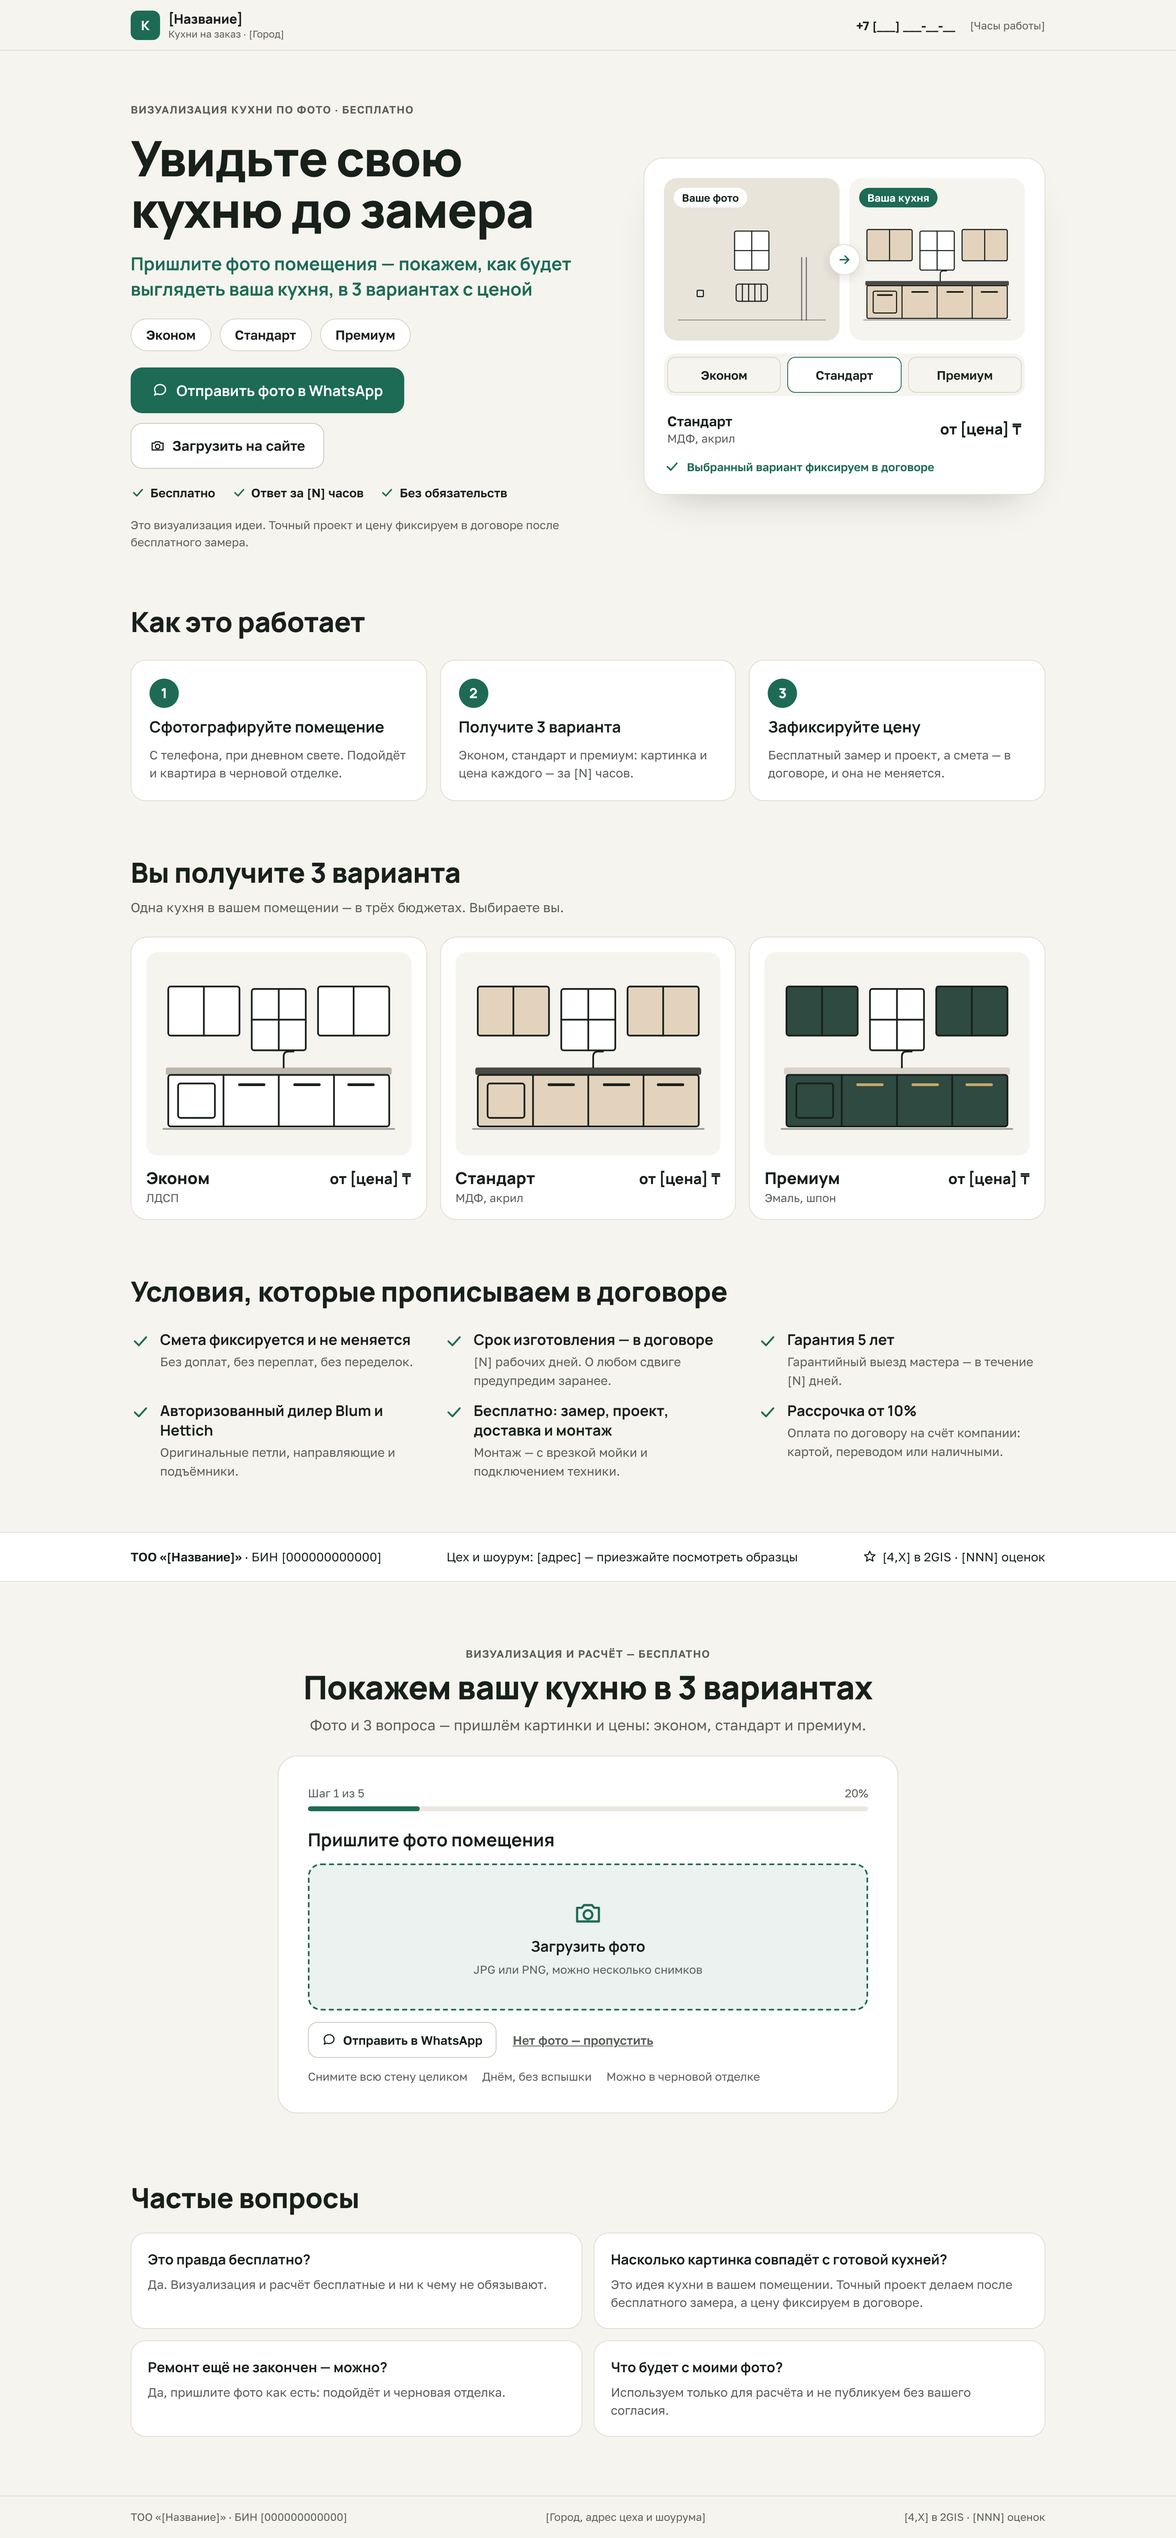
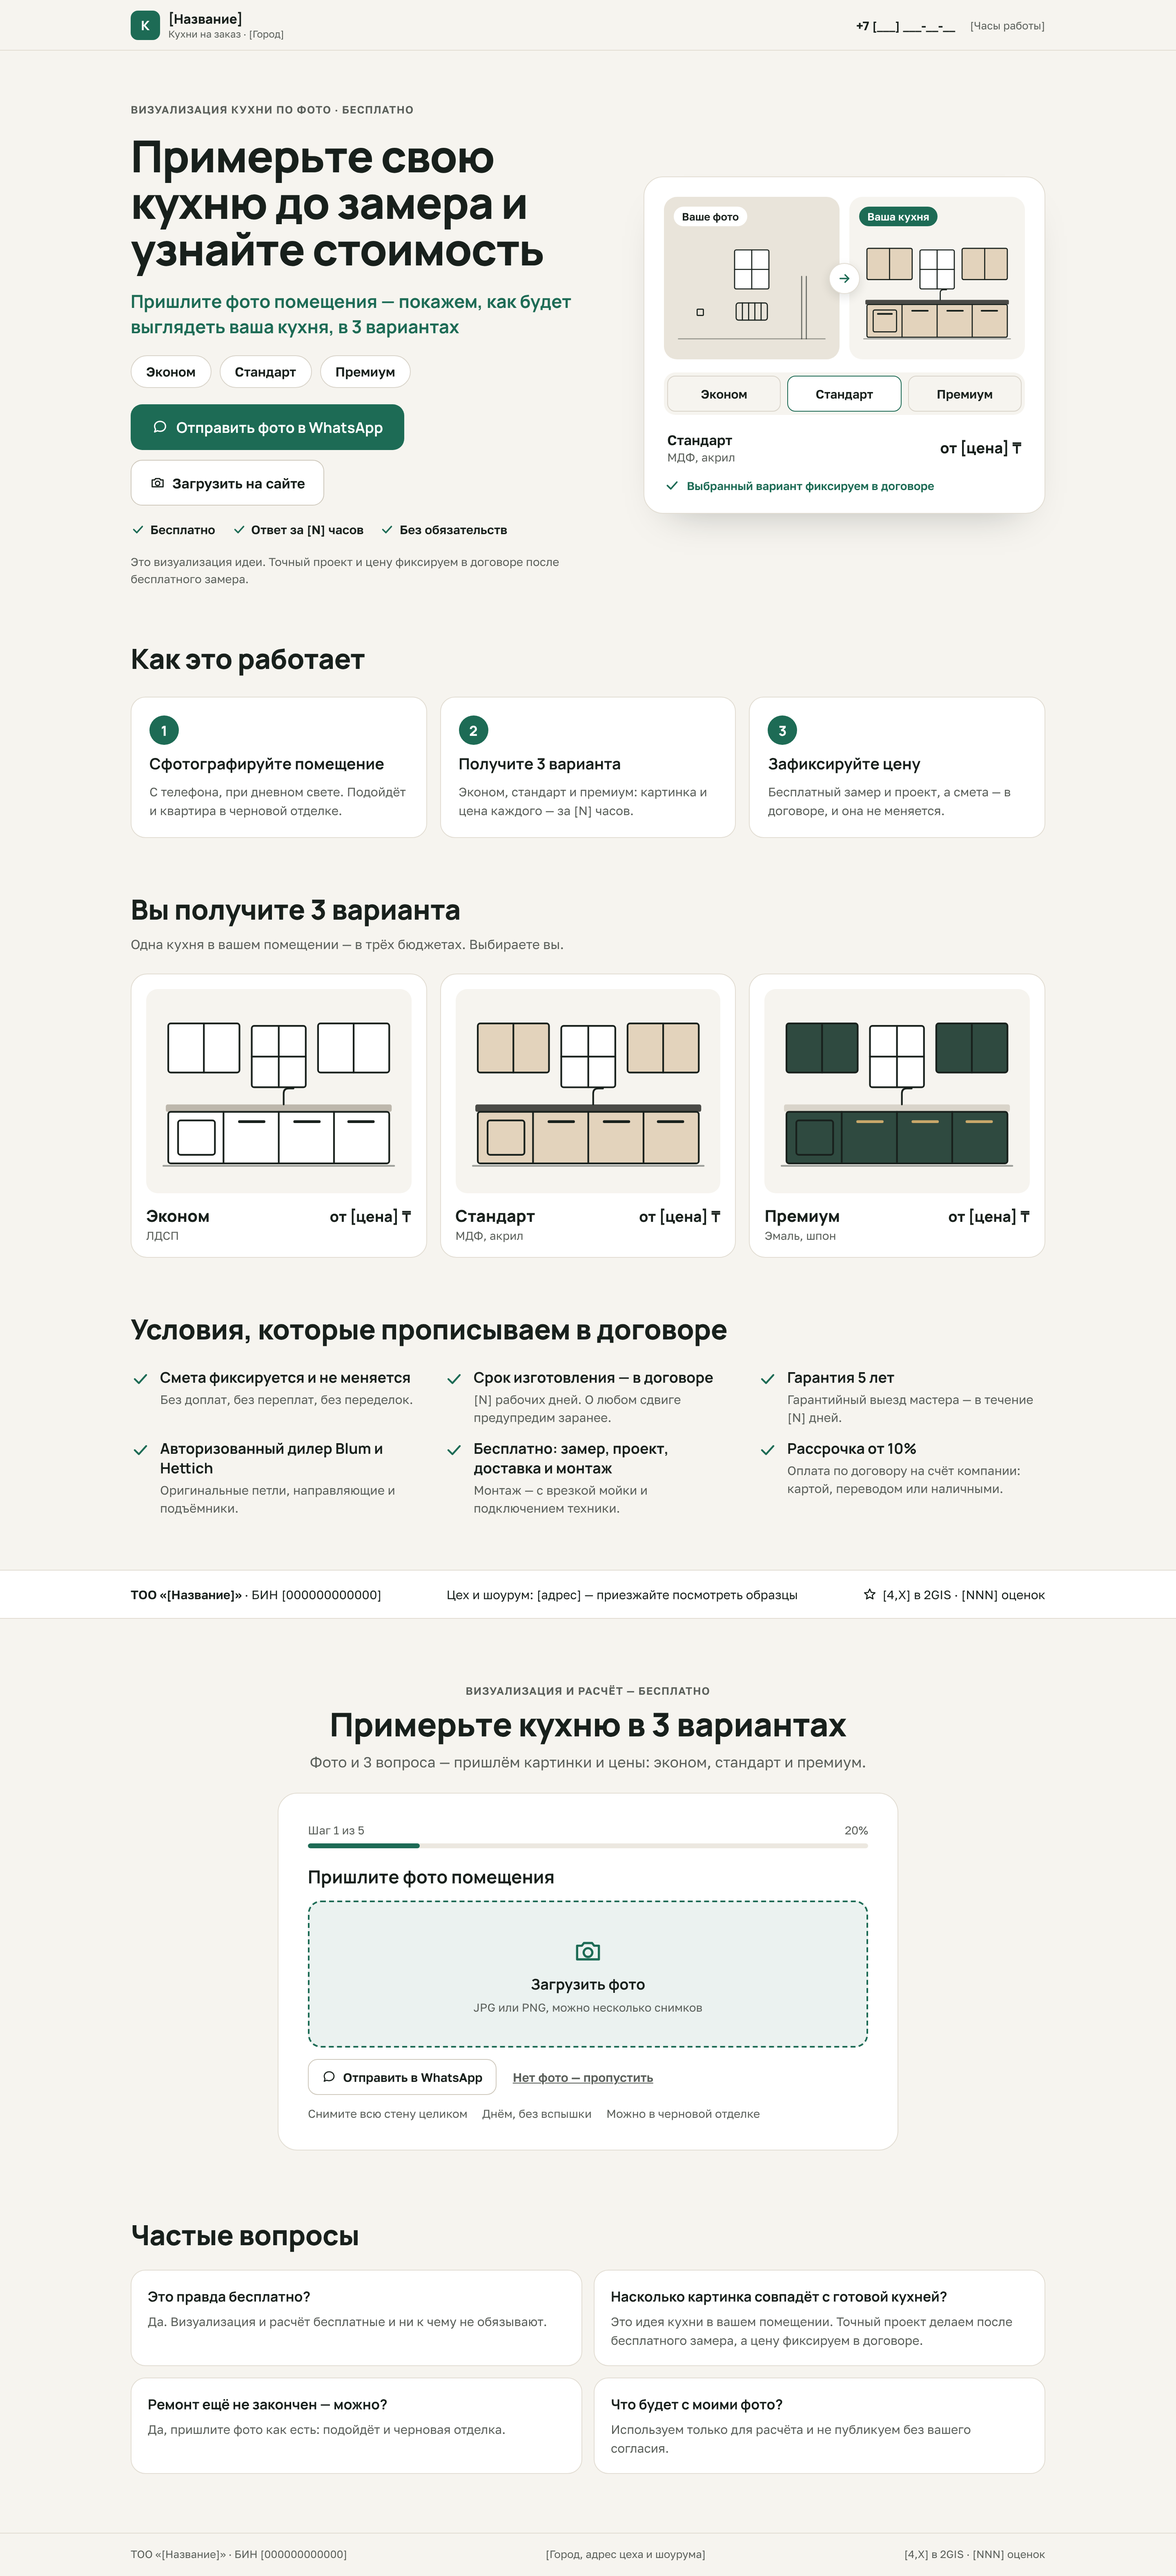
future: switch visualization headline to 'Примерьте свою кухню до замера и узнайте стоимость'
Claude-Session: https://claude.ai/code/session_01Qt72JtNyMN6tSNhXEsTKZ9

diff --git a/future/kitchen-visualization/mockups/Visual.dc.html b/future/kitchen-visualization/mockups/Visual.dc.html
@@ -2,7 +2,7 @@
 <html lang="ru">
 <head>
 <meta charset="utf-8">
-<title>Увидьте свою кухню до замера</title>
+<title>Примерьте свою кухню до замера</title>
 <script src="./support.js"></script>
 </head>
 <body>
@@ -34,8 +34,8 @@ body{margin:0}
 <section style="max-width: 1200px; margin: 0 auto; padding: clamp(28px, 4.5vw, 64px) clamp(16px, 4vw, 40px); box-sizing: border-box; display: flex; flex-wrap: wrap; align-items: center; gap: 36px 56px;">
 <div style="flex: 1 1 500px; min-width: 0; display: flex; flex-direction: column; gap: 20px;">
 <span style="font-size: 13px; font-weight: 600; letter-spacing: 0.06em; text-transform: uppercase; color: #5A5F5A;">Визуализация кухни по фото · бесплатно</span>
-<h1 style="margin: 0; font-family: Manrope, sans-serif; font-weight: 800; font-size: clamp(34px, 4.4vw, 60px); line-height: 1.05; letter-spacing: -0.02em;">Увидьте свою кухню до замера</h1>
-<p style="margin: 0; font-family: Manrope, sans-serif; font-weight: 700; font-size: clamp(18px, 1.8vw, 22px); line-height: 1.4; color: {{ accent }};">Пришлите фото помещения — покажем, как будет выглядеть ваша кухня, в 3 вариантах с ценой</p>
+<h1 style="margin: 0; font-family: Manrope, sans-serif; font-weight: 800; font-size: clamp(32px, 4vw, 54px); line-height: 1.06; letter-spacing: -0.02em;">Примерьте свою кухню до замера и узнайте стоимость</h1>
+<p style="margin: 0; font-family: Manrope, sans-serif; font-weight: 700; font-size: clamp(18px, 1.8vw, 22px); line-height: 1.4; color: {{ accent }};">Пришлите фото помещения — покажем, как будет выглядеть ваша кухня, в 3 вариантах</p>
 <div style="display: flex; flex-wrap: wrap; gap: 10px;">
 <span style="padding: 9px 18px; border-radius: 999px; background: #FFFFFF; border: 1px solid #D9D4CA; font-weight: 600; font-size: 16px;">Эконом</span>
 <span style="padding: 9px 18px; border-radius: 999px; background: #FFFFFF; border: 1px solid #D9D4CA; font-weight: 600; font-size: 16px;">Стандарт</span>
@@ -154,7 +154,7 @@ body{margin:0}
 <section id="quiz" style="max-width: 1200px; margin: 0 auto; padding: clamp(40px, 6vw, 80px) clamp(16px, 4vw, 40px); box-sizing: border-box; display: flex; flex-direction: column; align-items: center; gap: 24px;">
 <div style="max-width: 760px; width: 100%; display: flex; flex-direction: column; align-items: center; gap: 10px; text-align: center;">
 <span style="font-size: 13px; font-weight: 600; letter-spacing: 0.06em; text-transform: uppercase; color: #5A5F5A;">Визуализация и расчёт — бесплатно</span>
-<h2 style="margin: 0; font-family: Manrope, sans-serif; font-weight: 800; font-size: clamp(26px, 3vw, 40px); line-height: 1.15; letter-spacing: -0.01em;">Покажем вашу кухню в 3 вариантах</h2>
+<h2 style="margin: 0; font-family: Manrope, sans-serif; font-weight: 800; font-size: clamp(26px, 3vw, 40px); line-height: 1.15; letter-spacing: -0.01em;">Примерьте кухню в 3 вариантах</h2>
 <p style="margin: 0; font-size: clamp(16px, 1.5vw, 18px); line-height: 1.5; color: #5A5F5A;">Фото и 3 вопроса — пришлём картинки и цены: эконом, стандарт и премиум.</p>
 </div>
 

diff --git a/future/kitchen-visualization/mockups/VisualMobile.dc.html b/future/kitchen-visualization/mockups/VisualMobile.dc.html
@@ -2,7 +2,7 @@
 <html lang="ru">
 <head>
 <meta charset="utf-8">
-<title>Увидьте свою кухню до замера — телефон</title>
+<title>Примерьте свою кухню до замера — телефон</title>
 <script src="./support.js"></script>
 </head>
 <body>
@@ -28,8 +28,8 @@ body{margin:0}
 
 <section style="padding: 22px 16px 8px; box-sizing: border-box; display: flex; flex-direction: column; gap: 16px;">
 <span style="font-size: 12px; font-weight: 600; letter-spacing: 0.06em; text-transform: uppercase; color: #5A5F5A;">Визуализация по фото · бесплатно</span>
-<h1 style="margin: 0; font-family: Manrope, sans-serif; font-weight: 800; font-size: 34px; line-height: 1.06; letter-spacing: -0.02em;">Увидьте свою кухню до замера</h1>
-<p style="margin: 0; font-family: Manrope, sans-serif; font-weight: 700; font-size: 18px; line-height: 1.4; color: {{ accent }};">Пришлите фото помещения — покажем кухню в 3 вариантах с ценой</p>
+<h1 style="margin: 0; font-family: Manrope, sans-serif; font-weight: 800; font-size: 32px; line-height: 1.08; letter-spacing: -0.02em;">Примерьте свою кухню до замера и узнайте стоимость</h1>
+<p style="margin: 0; font-family: Manrope, sans-serif; font-weight: 700; font-size: 18px; line-height: 1.4; color: {{ accent }};">Пришлите фото помещения — покажем кухню в 3 вариантах: эконом, стандарт, премиум</p>
 
 <div style="background: #FFFFFF; border: 1px solid #E2DDD3; border-radius: 20px; padding: 12px; box-sizing: border-box; display: flex; flex-direction: column; gap: 12px;">
 <div style="position: relative; display: grid; grid-template-columns: repeat(2, minmax(0, 1fr)); gap: 8px;">
@@ -85,7 +85,7 @@ body{margin:0}
 <section id="quiz" style="padding: 20px 16px 24px; box-sizing: border-box;">
 <div style="background: #FFFFFF; border: 1px solid #E2DDD3; border-radius: 20px; padding: 18px; box-sizing: border-box; display: flex; flex-direction: column; gap: 16px;">
 <div style="display: flex; flex-direction: column; gap: 4px;">
-<h2 style="margin: 0; font-family: Manrope, sans-serif; font-weight: 800; font-size: 22px; line-height: 1.2;">Покажем вашу кухню в 3 вариантах</h2>
+<h2 style="margin: 0; font-family: Manrope, sans-serif; font-weight: 800; font-size: 22px; line-height: 1.2;">Примерьте кухню в 3 вариантах</h2>
 <sc-if value="{{ inQuiz }}" hint-placeholder-val="{{ true }}"><span style="font-size: 14px; color: #5A5F5A;">Шаг {{ stepNum }} из 5</span></sc-if>
 </div>
 <sc-if value="{{ inQuiz }}" hint-placeholder-val="{{ true }}">

diff --git a/future/kitchen-visualization/README.md b/future/kitchen-visualization/README.md
@@ -1,4 +1,4 @@
-# Будущая работа: «Увидьте свою кухню до замера»
+# Будущая работа: «Примерьте свою кухню до замера и узнайте стоимость»
 
 **Статус:** идея для эксперимента, не запущена. Подготовлено 24.11.2026.
 **Что это:** вариант квиз-лендинга, в котором вход в воронку — фото помещения. Клиент присылает фото и получает
@@ -42,8 +42,11 @@
 
 ### Первый экран
 - **Надзаголовок:** Визуализация кухни по фото · бесплатно
-- **Заголовок:** Увидьте свою кухню до замера
-- **Подзаголовок:** Пришлите фото помещения — покажем, как будет выглядеть ваша кухня, в 3 вариантах с ценой
+- **Заголовок:** Примерьте свою кухню до замера и узнайте стоимость
+  «Примерьте» передаёт примерку трёх вариантов, а «узнайте стоимость» добавляет вход, который в кейсах исследования
+  выигрывал чаще других (`report.md`, уровень 1, п. 4).
+- **Подзаголовок:** Пришлите фото помещения — покажем, как будет выглядеть ваша кухня, в 3 вариантах.
+  На телефоне, где нет плашек: «…покажем кухню в 3 вариантах: эконом, стандарт, премиум».
 - **Плашки:** Эконом · Стандарт · Премиум
 - **Кнопки:** «Отправить фото в WhatsApp» (главная) и «Загрузить на сайте»
 - **Микро-доверие:** Бесплатно · Ответ за [N] часов · Без обязательств
@@ -80,6 +83,8 @@
 - **Что будет с моими фото?** Используем только для расчёта и не публикуем без вашего согласия.
 
 ### Квиз: 5 шагов
+Заголовок блока: «Примерьте кухню в 3 вариантах».
+
 1. **Пришлите фото помещения.** Загрузить фото, или отправить в WhatsApp, или «Нет фото — пропустить».
    Подсказки: снимите всю стену целиком, днём, без вспышки, можно в черновой отделке.
 2. **Какая форма кухни?** Прямая · Угловая · П-образная · С островом · Пока не знаю.
@@ -167,7 +172,7 @@
 
 ## 7. Эксперимент
 
-- **Что сравниваем:** вариант C («Увидьте свою кухню до замера») против текущего квиза «Расчёт кухни
+- **Что сравниваем:** вариант C («Примерьте свою кухню до замера и узнайте стоимость») против текущего квиза «Расчёт кухни
   в 3 вариантах».
 - **Условия:** одинаковый бюджет и каналы (Instagram, TikTok, Google), одинаковый город, 2–4 недели или до [N]
   заявок на вариант.

diff --git a/HANDOFF.md b/HANDOFF.md
@@ -274,7 +274,7 @@ git checkout claude/funny-goldberg-wf71e8
 5. **Порядок в репозитории.** Исследование лежит в корне репозитория бота claude-bard, к нему
    не относящегося. Предложить пользователю перенести файлы в отдельную папку или отдельный репозиторий —
    только с его согласия.
-6. **Вариант лендинга с визуализацией по фото** («Увидьте свою кухню до замера»): бриф, тексты, макеты
+6. **Вариант лендинга с визуализацией по фото** («Примерьте свою кухню до замера и узнайте стоимость»): бриф, тексты, макеты
    и план эксперимента — в `future/kitchen-visualization/README.md`.
 
 ---
